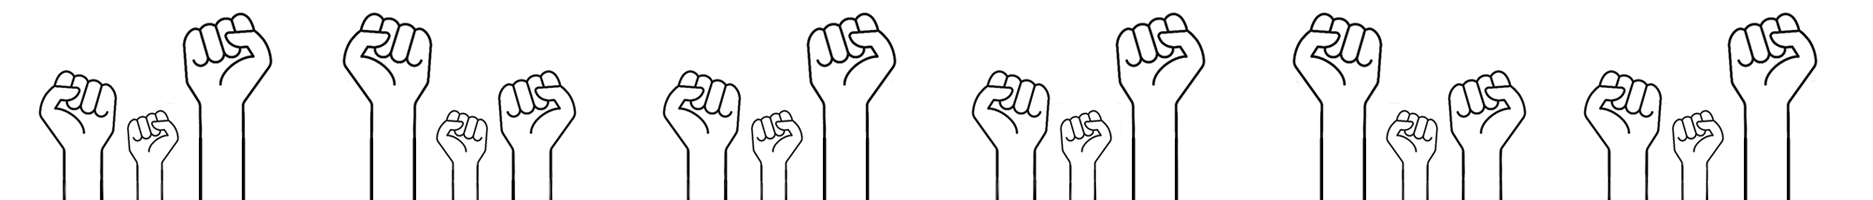
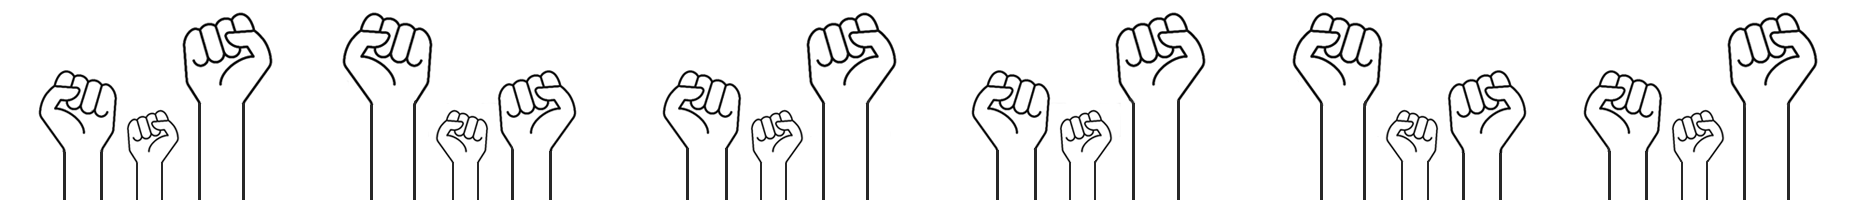
Added drawing back on mobile homepage

diff --git a/public/stylesheets/style.css b/public/stylesheets/style.css
@@ -1445,6 +1445,9 @@ footer{
 }    
 
 @media screen and (max-width:492px){
+    .contacts a {
+        margin-right:30px;
+    }
     .main-wrapper h1 {
         font-size: 28px;
         line-height: 38px;
@@ -1454,9 +1457,9 @@ footer{
         color: #fff;
     }
     .index-image {
-        display:none;
-/*        height:110px;
-        margin-top:-30px;*/
+        /*display:none;*/
+        height:110px;
+        margin-top:-30px;
     }
     .navbar-brand {
         padding-right: 0;
